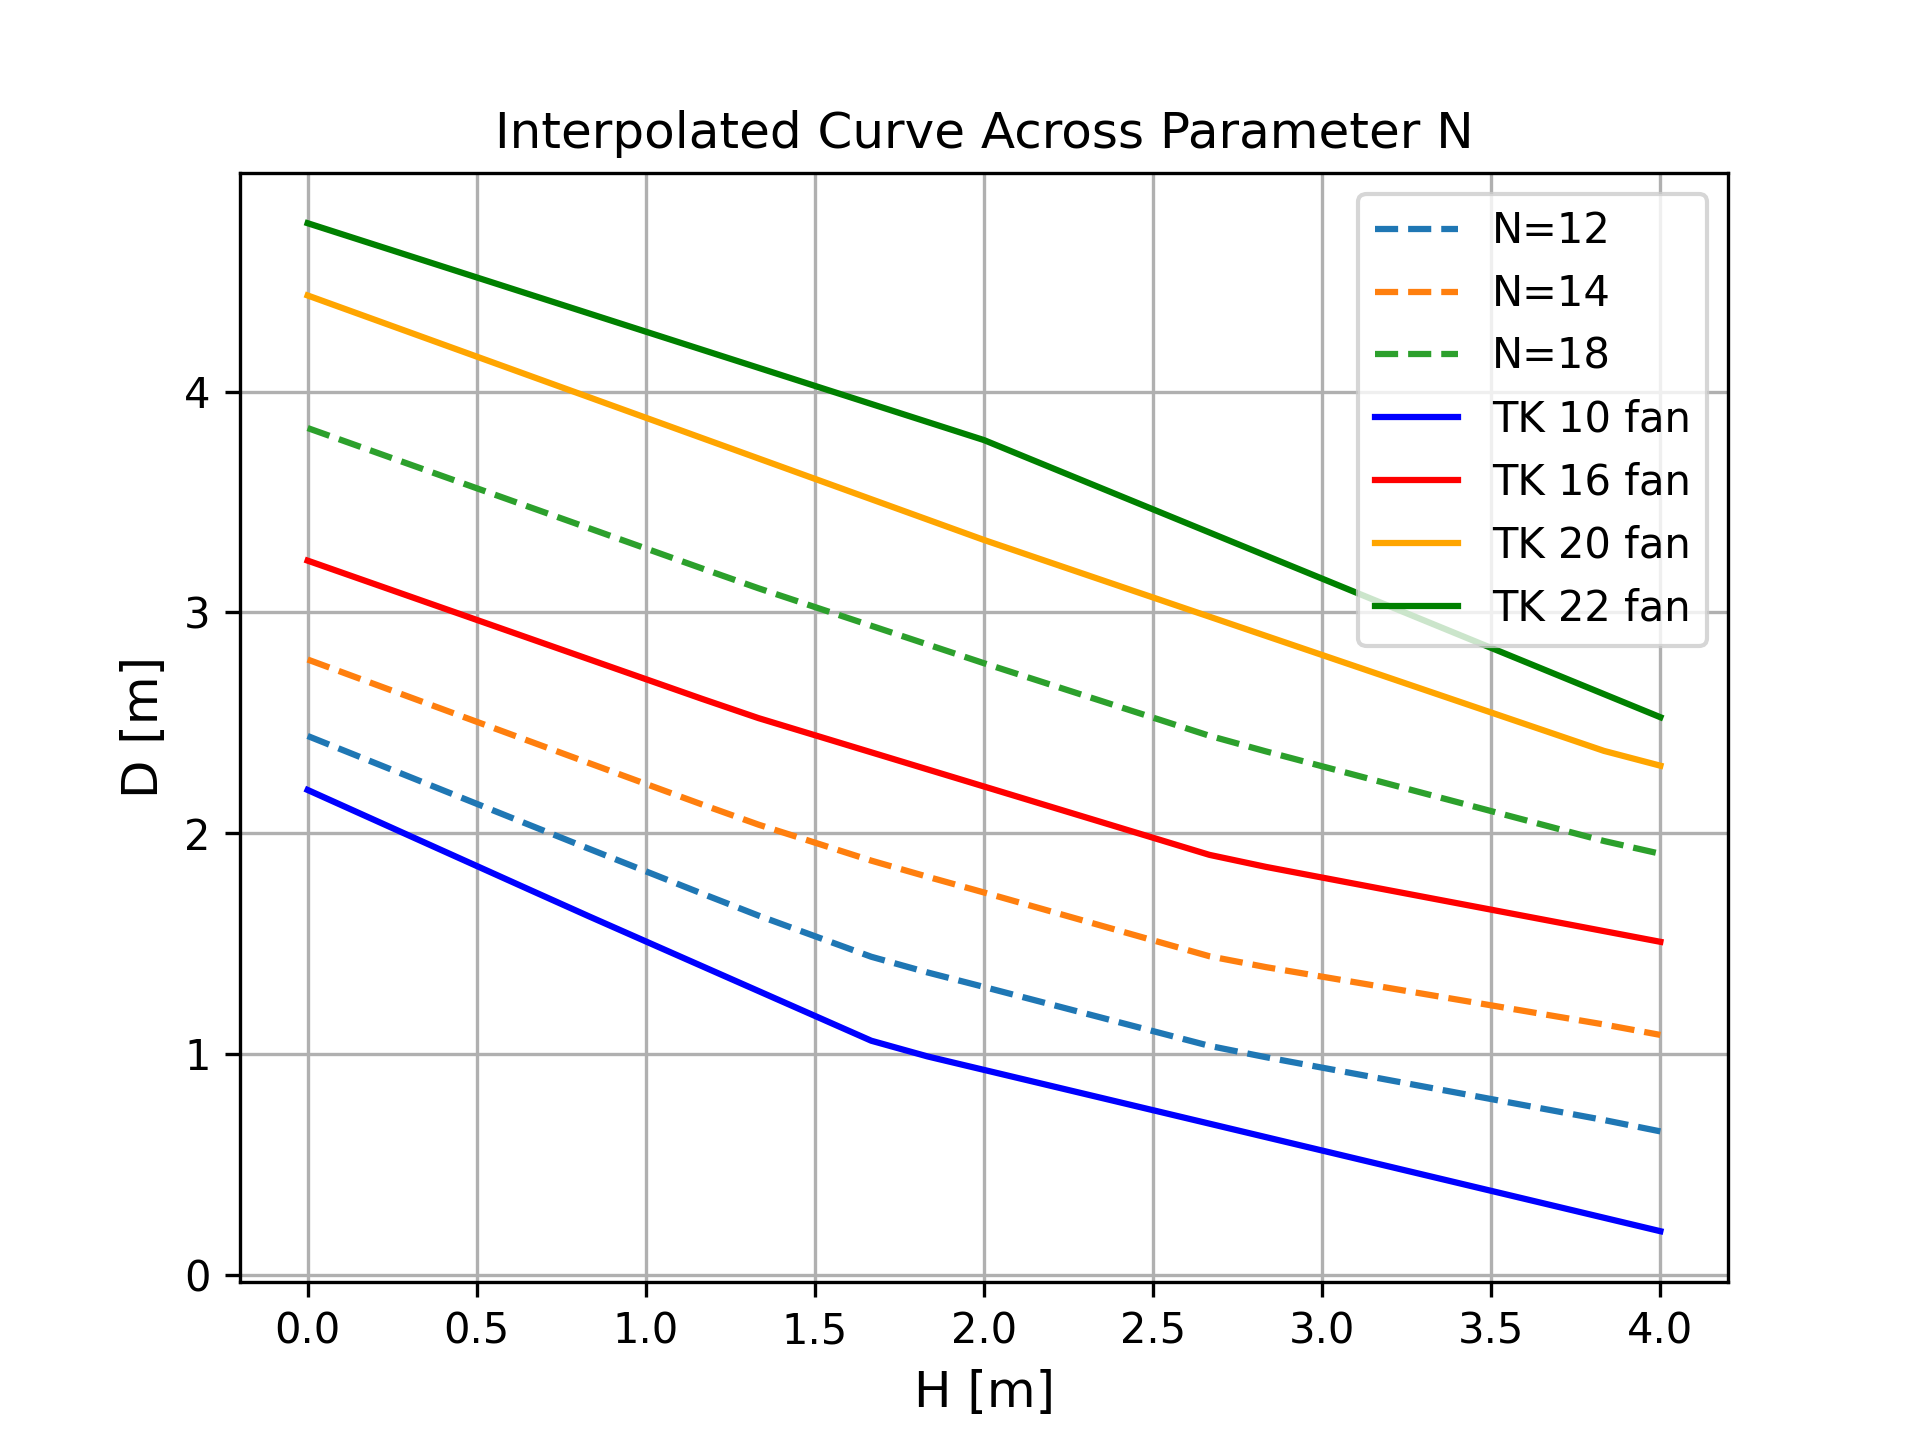
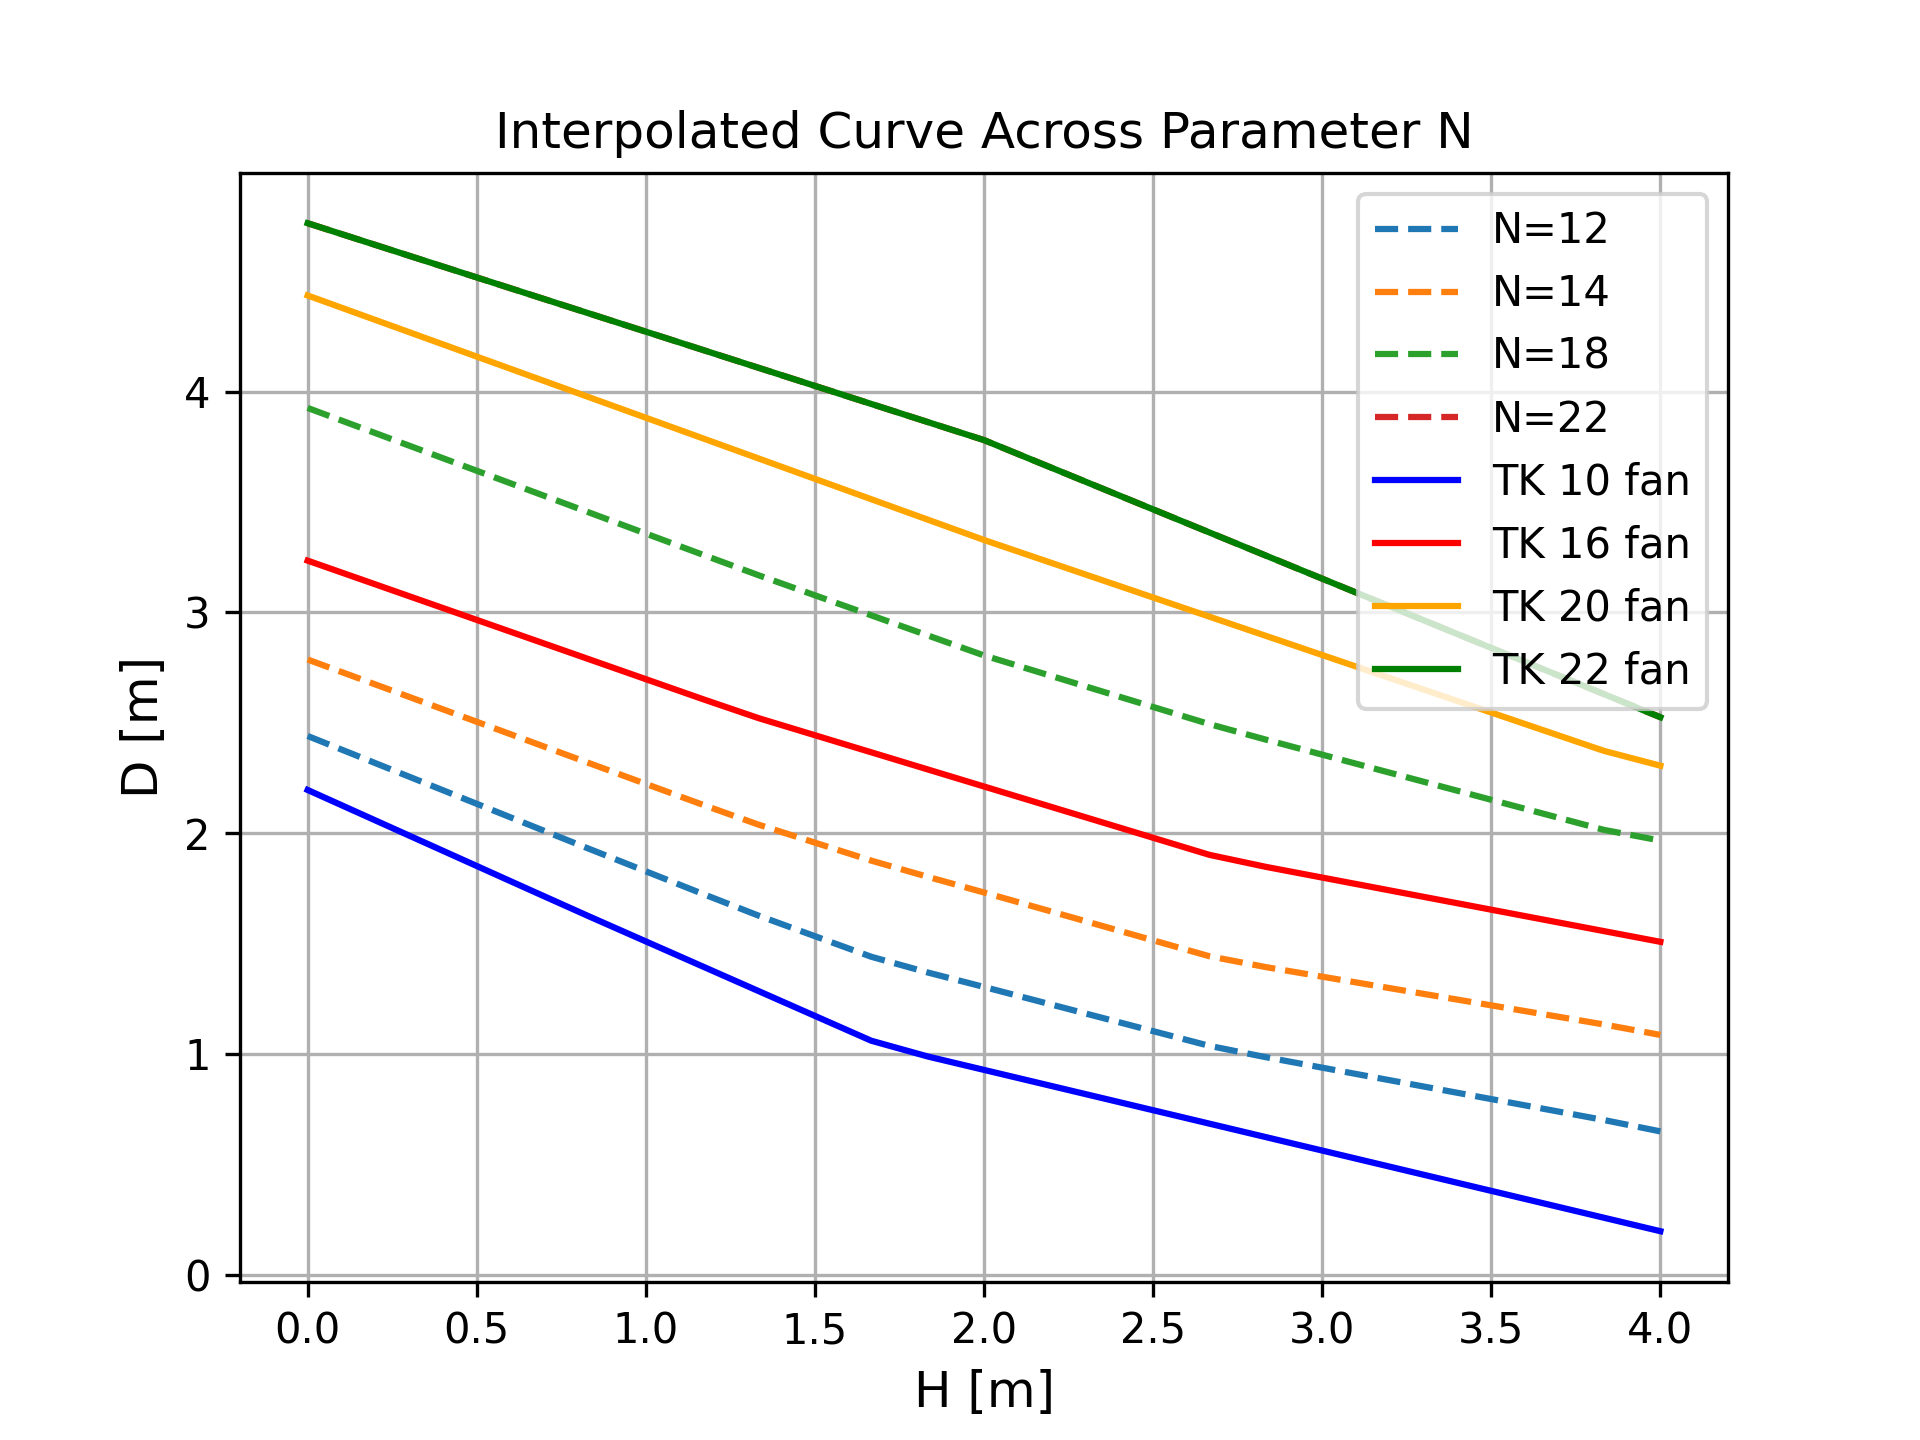
figure update

diff --git a/fittingCurves.py b/fittingCurves.py
@@ -379,10 +379,10 @@ plt.savefig('studio2.png',format='png', dpi=300)
 ####
 
 plt.figure(100)
-plt.plot(dd10, func_parabolic(dd10, *popt10), 'b--',label ="TK 10 fan")
-plt.plot(dd16, func_parabolic(dd16, *popt16), 'r--',label ="TK 16 fan")
-plt.plot(dd20, func_parabolic(dd20, *popt20), 'y--',label ="TK 20 fan")
-plt.plot(dd22, func_parabolic(dd22, *popt22), 'g--',label ="TK 22 fan")
+plt.plot(dd10, func_parabolic(dd10, *popt10), 'b-',label ="TK 10 fan")
+plt.plot(dd16, func_parabolic(dd16, *popt16), 'r-',label ="TK 16 fan")
+plt.plot(dd20, func_parabolic(dd20, *popt20), 'y-',label ="TK 20 fan")
+plt.plot(dd22, func_parabolic(dd22, *popt22), 'g-',label ="TK 22 fan")
 #plt.plot([comp[0,0],comp[8,0]], [comp[0,1],comp[8,1]], label="c-08 fan")
 plt.plot([comp[1,0],comp[9,0]], [comp[1,1],comp[9,1]],color='darkgray',linewidth=2, linestyle='--', label="c-10 fan")
 
@@ -456,19 +456,19 @@ if which_interp=="linear":
     y_12 = interpolate_across_N(y_10, y_16, 10, 16, 12)
     y_14 = interpolate_across_N(y_10, y_16, 10, 16, 14)
     y_18 = interpolate_across_N(y_16, y_20, 16, 20, 18)
-    #y_22 = interpolate_across_N(y_16, y_20, 16, 20, 22)
+    y_22 = interpolate_across_N(y_16, y_20, 16, 20, 22)
 elif which_interp=="quad":
     y_12 = quadratic_interpolate(10, y_10, 16, y_16, 20, y_20, 12)
     y_14 = quadratic_interpolate(10, y_10, 16, y_16, 20, y_20, 14)
     y_18 = quadratic_interpolate(16, y_16, 20, y_20, 22, y_22, 18)
-    #y_22 = quadratic_interpolate(16, y_16, 20, y_20, 22, y_22, 22)
-y_18 = (y_16[:]+y_20[:])/2
+    y_22 = quadratic_interpolate(16, y_16, 20, y_20, 22, y_22, 22)
+#_18 = (y_16[:]+y_20[:])/2
 plt.figure(5)
 
 plt.plot(x_common, y_12, label=f'N={12}', linestyle='--')
 plt.plot(x_common, y_14, label=f'N={14}', linestyle='--')
 plt.plot(x_common, y_18, label=f'N={18}', linestyle='--')
-#plt.plot(x_common, y_22, label=f'N={22}', linestyle='--')
+plt.plot(x_common, y_22, label=f'N={22}', linestyle='--')
 
 plt.plot(x_common, y_10,  "-",color="blue", label="TK 10 fan")
 plt.plot(x_common, y_16,  "-",color="red", label="TK 16 fan")
